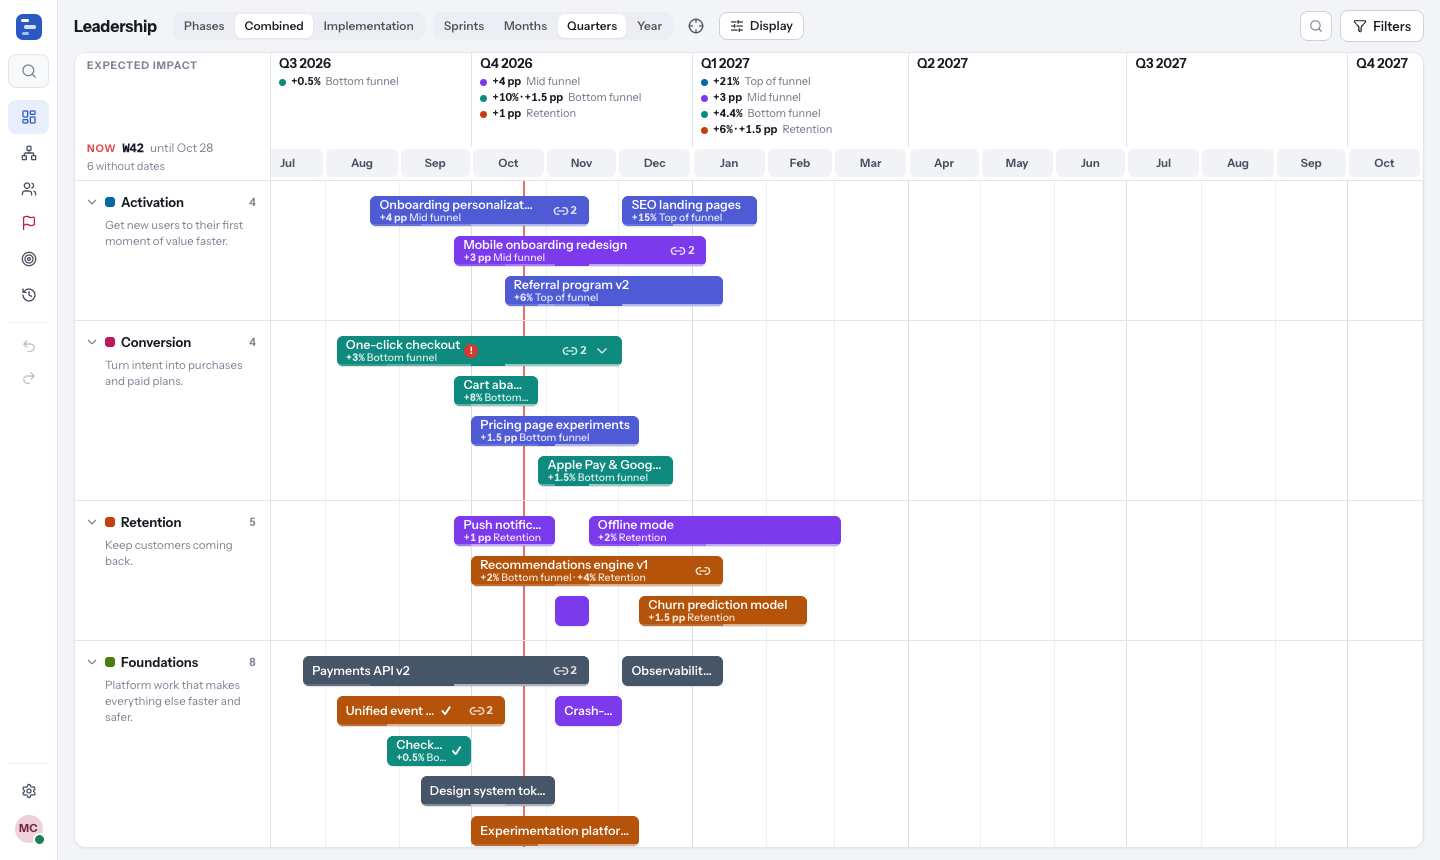
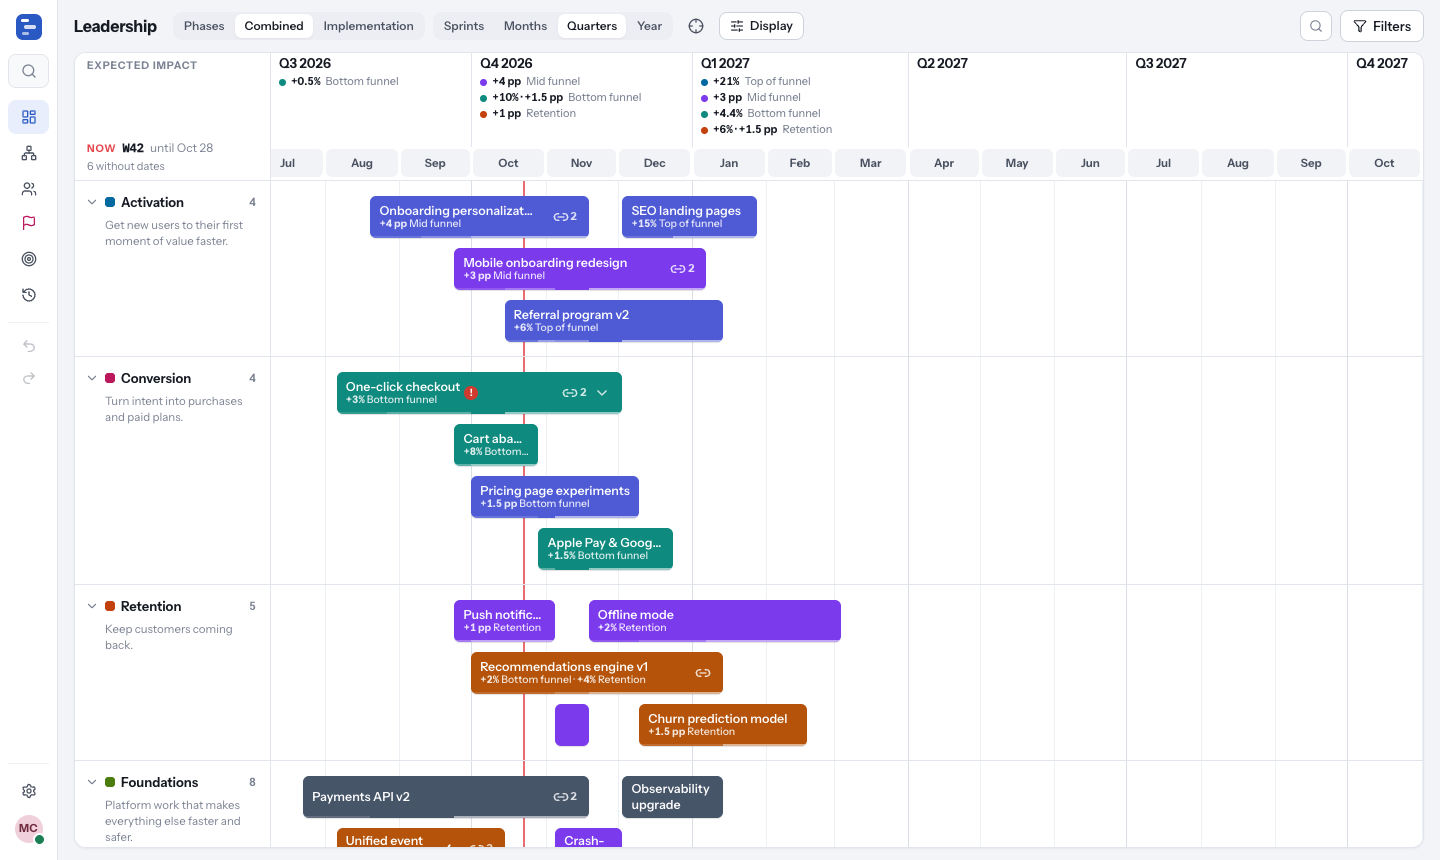
Leadership and Alignment: bars 1.4 times as tall
Bars in packed lanes (Leadership, Alignment) go from 30 to 42 px (rows 40 to
52 px, same gap). The extra room lets a name without an expected-impact line
wrap to two lines instead of being cut short; a name over its impact line
stays on one line, ellipsised as before. The bet view keeps its thin Gantt
bars, and the team board its double-height cards.

README screenshots of Leadership and Alignment are refreshed; DECISIONS
records the heights.

diff --git a/src/client/timeline/geometry.ts b/src/client/timeline/geometry.ts
@@ -56,12 +56,13 @@ export interface Metrics {
 /**
  * Every phase mode draws one bar per row; with separate phases, the phases sit side by side in it. Compact rows
  * (a strategic bet's view) are packed lanes of one umbrella each, named in the label column, so bars are thin.
- * The team board's cards are tall enough for an umbrella tag over a name of two lines.
+ * The team board's cards are tall enough for an umbrella tag over a name of two lines; packed lanes (Leadership,
+ * Alignment) for a name of two lines, or a name over its expected impact.
  */
 export function metricsFor(mode: LayoutMode, compact = false): Metrics {
   if (compact) return { rowH: 26, barTop: 4, barH: 18, groupPad: 6, headerH: 0, collapsedH: 38, endInset: 2, sectionH: 32 };
   return mode === 'packed'
-    ? { rowH: 40, barTop: 5, barH: 30, groupPad: 10, headerH: 0, collapsedH: 40, endInset: 0, sectionH: 0 }
+    ? { rowH: 52, barTop: 5, barH: 42, groupPad: 10, headerH: 0, collapsedH: 40, endInset: 0, sectionH: 0 }
     : { rowH: 78, barTop: 9, barH: 60, groupPad: 0, headerH: 34, collapsedH: 34, endInset: 3, sectionH: 0 };
 }
 

diff --git a/src/client/styles.css b/src/client/styles.css
@@ -2729,6 +2729,24 @@ body::before {
   -webkit-line-clamp: 5;
 }
 
+/* Leadership and Alignment: a name can take two lines, or one over the expected impact. */
+.mode-packed:not(.is-compact) .tl-text {
+  white-space: normal;
+  line-height: 1.25;
+}
+
+.mode-packed:not(.is-compact) .bar-title {
+  display: -webkit-box;
+  -webkit-box-orient: vertical;
+  -webkit-line-clamp: 2;
+  overflow-wrap: anywhere;
+}
+
+.mode-packed:not(.is-compact) .bar-stack .bar-title {
+  display: block;
+  white-space: nowrap;
+}
+
 /* Dragging a bar to a row: the row it will land in. */
 .tl-rowtarget {
   position: absolute;

diff --git a/docs/DECISIONS.md b/docs/DECISIONS.md
@@ -64,6 +64,8 @@ Newest areas last within each section. (Built in October 2026; "today" in the ex
 - Team view shows parts, named in two lines: the umbrella as a small white tag on top (its name in the umbrella's
   colour after a dot of it), the part's name below. When the part's name already starts with the umbrella's, only
   the dot shows, before the name.
+- Leadership and Alignment bars are 1.4 times their first height (42 px, rows 52 px): a name can take two lines,
+  or one line over the expected impact. The bet view keeps its thin Gantt bars.
 - Leadership and Alignment show the umbrella as one bar. A bare chevron (no count, no background) at the end of
   its bar opens that one umbrella; it stays on its line, its parts appear in new lines under it in a light box,
   and the lines below move down. Display → Expand all / Collapse all opens or closes all of them.
@@ -85,8 +87,8 @@ Newest areas last within each section. (Built in October 2026; "today" in the ex
 - A free board: no names column (names are in the bars), rows chosen by the team, several items to a row when
   dates don't clash, two-row bars for long names, drawing new items on any row including empty ones below, a
   small gap between back-to-back items.
-- Cards are twice the height of other views' bars (60 px, rows 78 px): room for the umbrella tag over a name that
-  wraps to two lines (three without a tag; twice that in a two-row card). Other views keep their thin bars.
+- Cards are twice the height they started at (60 px, rows 78 px): room for the umbrella tag over a name that
+  wraps to two lines (three without a tag; twice that in a two-row card).
 - Every bar is the same colour (the Mist pastel), whatever it is. Umbrellas are told apart by the tags on their
   parts instead: each umbrella gets a colour of its own, unique among umbrellas, picked automatically and kept,
   changeable in the drawer of the umbrella or any part. Initiatives on their own have no colour choice (an older
